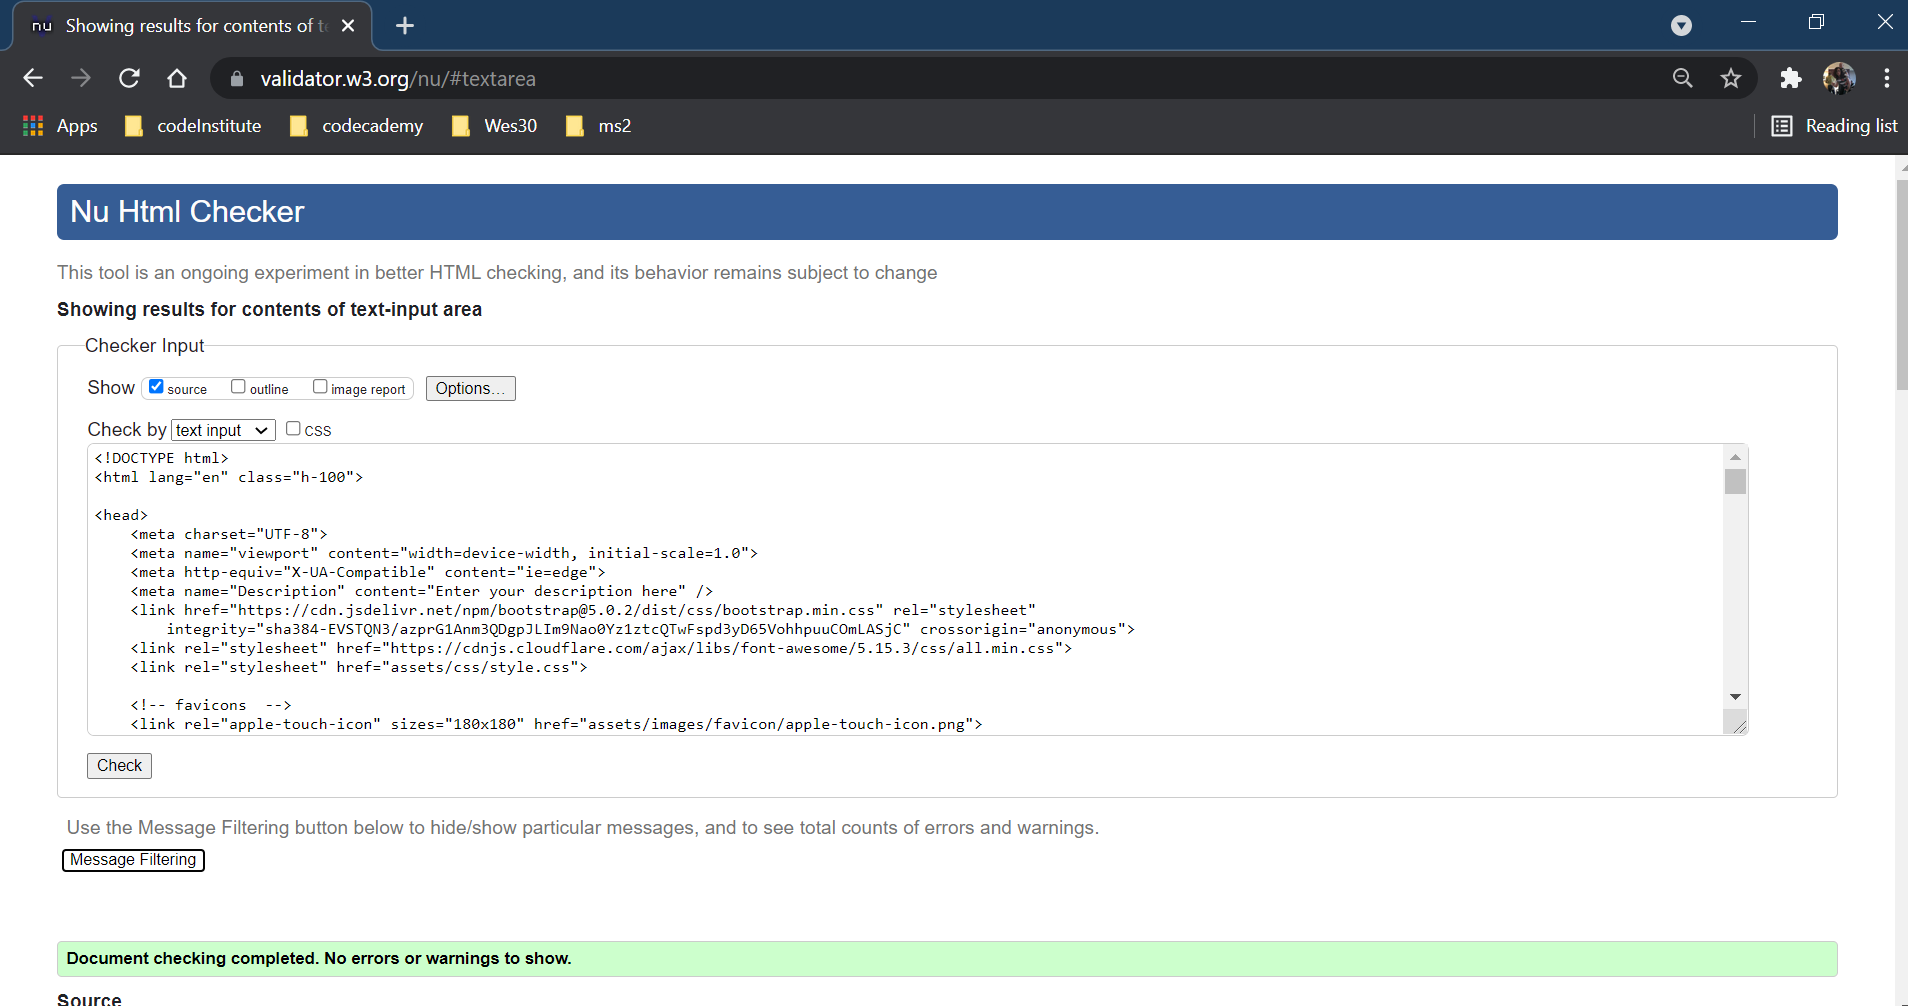
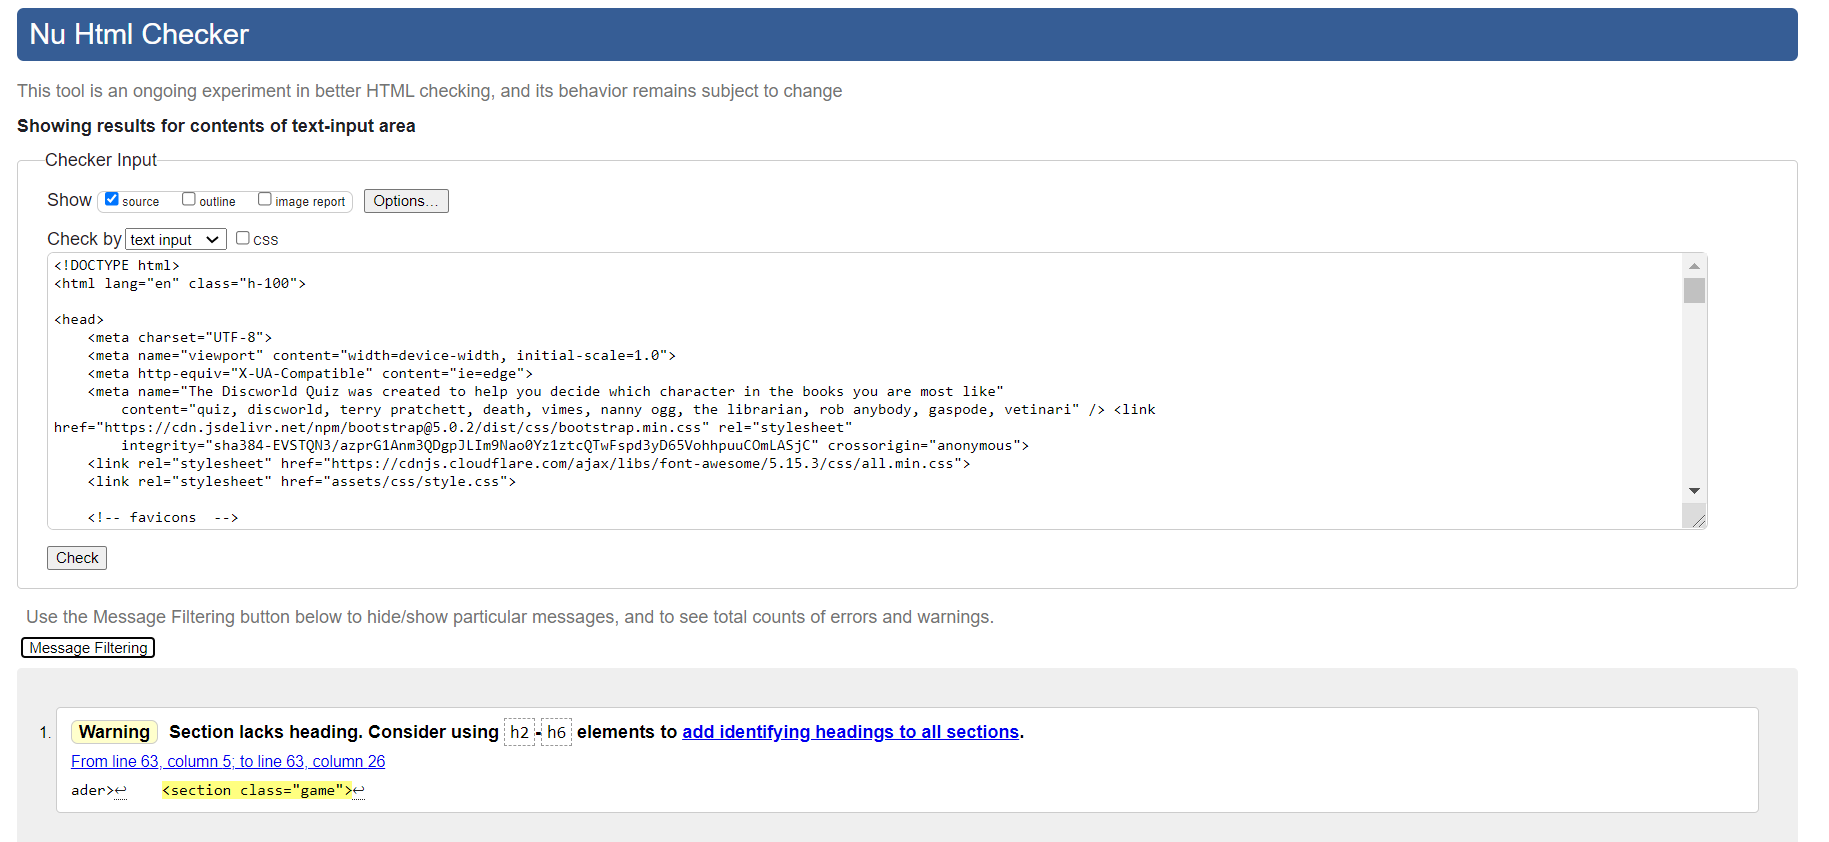
Dev: CSS testing updated after styling

diff --git a/game.html b/game.html
@@ -27,7 +27,7 @@
         <!-- Transparent navbar https://www.youtube.com/watch?v=kmmxxfyufLE -->
         <nav class="navbar fixed-top navbar-expand-md navbar-dark p-md-3">
             <div class="container-fluid">
-                <a class="navbar-brand" href="index.html"><img src="assets/images/noun_turtle.png" alt="turtle icon"></a>
+                <a class="navbar-brand" href="index.html"><img src="assets/images/noun_turtle.png" alt="turtle icon" class="turtle" width="75" height="75"></a>
                 <div class="button d-sm-block d-md-none btn">
                     <img src="assets/images/noun_mute.png" alt="volume button" class="volume justify-content-center">
                 </div>
@@ -52,7 +52,7 @@
                         <li>
                             <div class="button d-none d-md-block btn">
                                 <img src="assets/images/noun_mute.png" alt="volume button"
-                                    class="volume justify-content-center">
+                                    class="volume justify-content-center" width="50" height="50">
                             </div>
                         </li>
                     </ul>
@@ -91,33 +91,33 @@
 
     <!-- Transparent Footer help https://codepen.io/knuhol/pen/zzQpeR  -->
     <footer class="fixed-bottom footer d-flex mt-auto py-3 bg-light">
-        <div class="container">
+        <div class="container-fluid">
             <div class="row align-items-center">
-                <div class="col">
+                <div class="col d-flex justify-content-around">
                     <ul class="copyright">
                         <li class="list-inline-item sm-links discworld"><a href="https://www.discworldemporium.com/"
                                 target="_blank"><img src="assets/images/discworldEmporium.jpg"
-                                    alt="link to Discworld Emporium" rel="noopener" width="32px" height="32px"></a></li>
-                        <li class="list-inline-item"><img class="icon" src="assets/images/copyright.png" width="20px" height="20px"
+                                    alt="link to Discworld Emporium" rel="noopener" width="32" height="32"></a></li>
+                        <li class="list-inline-item"><img class="icon" src="assets/images/copyright.jpg" width="20" height="19"
                                 alt="copyright symbol"></li>
                         <li class="list-inline-item terry">Terry Pratchett</li>
                     </ul>
                 </div>
-                <div class="col">
+                <div class="col d-flex justify-content-around">
                     <ul class="list-inline sm-links-ul">
                         <li class="list-inline-item sm-links">
                             <a href="https://github.com/suzybee1987" target="_blank" rel="noopener">
-                                <img src="assets/images/github.png" alt="GitHub link" width="32px">
+                                <img src="assets/images/github.png" alt="GitHub link" width="32">
                             </a>
                         </li>
                         <li class="list-inline-item sm-links">
                             <a href="https://www.instagram.com/" target="_blank" rel="noopener">
-                                <img src="assets/images/noun_ig.png" alt="instagram link" width="32px">
+                                <img src="assets/images/noun_ig.png" alt="instagram link" width="32">
                             </a>
                         </li>
                         <li class="list-inline-item sm-links">
                             <a href="https://www.facebook.com/" target="_blank" rel="noopener">
-                                <img src="assets/images/facebook.png" alt="facebook link" width="32px">
+                                <img src="assets/images/facebook.png" alt="facebook link" width="32">
                             </a>
                         </li>
                     </ul>

diff --git a/contact.html b/contact.html
@@ -27,7 +27,7 @@
         <nav class="navbar fixed-top navbar-expand-md navbar-dark p-md-3">
             <div class="container-fluid">
                 <a class="navbar-brand" href="index.html"><img src="assets/images/noun_turtle.png"
-                        alt="turtle icon"></a>
+                        alt="turtle icon" class="turtle" width="75" height="75"></a>
                 <button class="navbar-toggler btn btn-outline-light" type="button" data-bs-toggle="collapse"
                     data-bs-target="#navbarNav" aria-controls="navbarNav" aria-expanded="false"
                     aria-label="Toggle navigation">
@@ -82,7 +82,7 @@
                                 <label for="textArea" class="form-label-sm">comments:</label>
                             </div>
                             <div class="col-8">
-                                <textarea name="message" class="form-control-sm data" rows="2" id="textArea"
+                                <textarea name="message" class="form-control-sm data w-100" rows="2" id="textArea"
                                     required></textarea>
                             </div>
                         </div>
@@ -118,33 +118,33 @@
 
     <!-- Transparent Footer help https://codepen.io/knuhol/pen/zzQpeR  -->
     <footer class="fixed-bottom footer d-flex mt-auto py-3 bg-light">
-        <div class="container">
+        <div class="container-fluid">
             <div class="row align-items-center">
-                <div class="col">
+                <div class="col d-flex justify-content-around">
                     <ul class="copyright">
                         <li class="list-inline-item sm-links discworld"><a href="https://www.discworldemporium.com/"
                                 target="_blank"><img src="assets/images/discworldEmporium.jpg"
-                                    alt="link to Discworld Emporium" rel="noopener" width="32px" height="32px"></a></li>
-                        <li class="list-inline-item"><img class="icon" src="assets/images/copyright.png" width="20px" height="20px"
+                                    alt="link to Discworld Emporium" rel="noopener" width="32" height="32"></a></li>
+                        <li class="list-inline-item"><img class="icon" src="assets/images/copyright.jpg" width="20" height="19"
                                 alt="copyright symbol"></li>
                         <li class="list-inline-item terry">Terry Pratchett</li>
                     </ul>
                 </div>
-                <div class="col">
+                <div class="col d-flex justify-content-around">
                     <ul class="list-inline sm-links-ul">
                         <li class="list-inline-item sm-links">
                             <a href="https://github.com/suzybee1987" target="_blank" rel="noopener">
-                                <img src="assets/images/github.png" alt="GitHub link" width="32px">
+                                <img src="assets/images/github.png" alt="GitHub link" width="32">
                             </a>
                         </li>
                         <li class="list-inline-item sm-links">
                             <a href="https://www.instagram.com/" target="_blank" rel="noopener">
-                                <img src="assets/images/noun_ig.png" alt="instagram link" width="32px">
+                                <img src="assets/images/noun_ig.png" alt="instagram link" width="32">
                             </a>
                         </li>
                         <li class="list-inline-item sm-links">
                             <a href="https://www.facebook.com/" target="_blank" rel="noopener">
-                                <img src="assets/images/facebook.png" alt="facebook link" width="32px">
+                                <img src="assets/images/facebook.png" alt="facebook link" width="32">
                             </a>
                         </li>
                     </ul>

diff --git a/index.html b/index.html
@@ -33,7 +33,7 @@
         <nav class="navbar fixed-top navbar-expand-md navbar-dark p-md-3">
             <div class="container-fluid">
                 <a class="navbar-brand" href="index.html" aria-current="page"><img src="assets/images/noun_turtle.png"
-                        alt="turtle icon"></a>
+                        alt="turtle icon" class="turtle" width="75" height="75"></a>
                 <button class="navbar-toggler btn btn-outline-light" type="button" data-bs-toggle="collapse"
                     data-bs-target="#navbarNav" aria-controls="navbarNav" aria-expanded="false"
                     aria-label="Toggle navigation">
@@ -108,33 +108,33 @@
 
     <!-- Transparent Footer help https://codepen.io/knuhol/pen/zzQpeR  -->
     <footer class="fixed-bottom footer d-flex mt-auto py-3 bg-light">
-        <div class="container">
+        <div class="container-fluid">
             <div class="row align-items-center">
-                <div class="col">
+                <div class="col d-flex justify-content-around">
                     <ul class="copyright">
                         <li class="list-inline-item sm-links discworld"><a href="https://www.discworldemporium.com/"
-                                target="_blank"><img src="assets/images/discworldEmporium.jpg" width="32px" height="32px"
+                                target="_blank"><img src="assets/images/discworldEmporium.jpg" width="32" height="32"
                                     alt="link to Discworld Emporium" rel="noopener"></a></li>
-                        <li class="list-inline-item"><img class="icon" src="assets/images/copyright.png"  width="20px" height="20px"
+                        <li class="list-inline-item"><img class="icon" src="assets/images/copyright.jpg"  width="20" height="19"
                                 alt="copyright symbol"></li>
                         <li class="list-inline-item terry">Terry Pratchett</li>
                     </ul>
                 </div>
-                <div class="col">
+                <div class="col d-flex justify-content-around">
                     <ul class="list-inline sm-links-ul">
                         <li class="list-inline-item sm-links">
                             <a href="https://github.com/suzybee1987" target="_blank" rel="noopener">
-                                <img src="assets/images/github.png" alt="GitHub link" width="32px">
+                                <img src="assets/images/github.png" alt="GitHub link" width="32">
                             </a>
                         </li>
                         <li class="list-inline-item sm-links">
                             <a href="https://www.instagram.com/" target="_blank" rel="noopener">
-                                <img src="assets/images/noun_ig.png" alt="instagram link" width="32px">
+                                <img src="assets/images/noun_ig.png" alt="instagram link" width="32">
                             </a>
                         </li>
                         <li class="list-inline-item sm-links">
                             <a href="https://www.facebook.com/" target="_blank" rel="noopener">
-                                <img src="assets/images/facebook.png" alt="facebook link" width="32px">
+                                <img src="assets/images/facebook.png" alt="facebook link" width="32">
                             </a>
                         </li>
                     </ul>

diff --git a/assets/css/style.css b/assets/css/style.css
@@ -1,10 +1,5 @@
 @import url('https://fonts.googleapis.com/css2?family=IM+Fell+French+Canon+SC&family=IM+Fell+Great+Primer&display=swap');
 
-html,
-body {
-    height: 100;
-}
-
 body {
     font-family: 'IM Fell Great Primer',
         serif;
@@ -43,7 +38,7 @@ a.help-btn {
 }
 
 /* as nav is transparent it is hard to see on mobile so media query to change to dark-blue  */
-@media screen and (max-width: 768px) {
+@media screen and (max-width: 767px) {
     ul.navbar-nav.align-items-end.ms-auto {
         background: #0e3159;
         width: 162px;
@@ -52,21 +47,15 @@ a.help-btn {
         border: 0;
     }
     .game {
-        height: 110vh;
+        height: 120vh;
     }
-}
-
-img,
-svg {
-    vertical-align: middle;
-    height: 75px;
 }
 
 /* on smaller screen make turtle a bit smaller  */
 @media only screen and (max-width: 768px) {
-    img,
-    svg {
+    .turtle {
         height: 50px;
+        width: 50px;
     }
 }
 
@@ -117,6 +106,7 @@ a.nav-link.text-white:hover {
     background-color: rgb(213 220 220 / 88%);
     text-align: center;
     border-bottom: transparent;
+    max-width: 450px;
 }
 
 .modal-header {
@@ -203,7 +193,6 @@ a:hover {
     justify-content: center;
 }
 
-/*--------------------------- Modal----------------------- end  */
 /*-----------------------------Footer ---------------------------- */
 footer {
     list-style-type: none;
@@ -214,7 +203,7 @@ footer {
     align-items: center;
     background: #fff;
     opacity: 0.6;
-    height: 60px;
+    height: 50px;
     z-index: 2;
     flex-shrink: 0;
 }
@@ -224,10 +213,6 @@ footer li {
     justify-items: center;
     align-items: center;
     color: black;
-}
-
-.icon {
-    height: 30px;
 }
 
 .terry {
@@ -256,16 +241,15 @@ footer li {
     text-decoration: none;
 }
 
-footer img {
+.sm-links {
     height: 32px;
+    width: 32px;
 }
 
 .sm-links:hover {
-    padding: 5px;
     transform: scale(1.1);
     box-shadow: 0 0 1rem #000;
 }
-
 
 /* Contact page  */
 /* https: //css-tricks.com/perfect-full-page-background-image/ to get the perfect background fit */
@@ -275,7 +259,7 @@ footer img {
     -moz-background-size: cover;
     -o-background-size: cover;
     background-size: cover;
-    min-height: 100vh;
+    min-height: 110vh;
 }
 
 .bg-light.h-100.p-5.rounded-3.text-center {
@@ -283,8 +267,8 @@ footer img {
 }
 
 .contact {
-    margin-top: 150px;
-    max-width: 380px;
+    margin-top: 110px;
+    max-width: 350px;
     align-items: center;
     justify-content: center;
     opacity: 0.9;
@@ -305,7 +289,7 @@ footer img {
     -o-background-size: cover;
     background-size: cover;
     flex: 1 0 auto;
-    min-height: 100vh;
+    min-height: 110vh;
 }
 
 .gameContent {
@@ -354,11 +338,11 @@ footer img {
 /* for screen sizes medium increase padding */
 @media screen and (min-width: 576px) {
     #quizQuestion {
-        padding-top: 150px;
+        padding-top: 130px;
         color: white;
         font-family: 'IM Fell French Canon SC',
             serif;
-        font-size: 2.5em;
+        font-size: 2.2em;
     }
 }
 
@@ -444,8 +428,6 @@ footer img {
 .volume {
     display: flex;
     justify-content: center;
-    padding: 0 10px 0 10px;
-    height: 50px;
 }
 
 .muted {

diff --git a/assets/js/script.js b/assets/js/script.js
@@ -143,7 +143,7 @@
   				// add q and a to the output 
   				gameOutput.push(
   					`<div class="slide">
-                        <div class="col m-auto text-center" id="quizQuestion">${currentQ.question}</div>
+                        <h2 class="col m-auto text-center" id="quizQuestion">${currentQ.question}</h2>
                         <div class="answers row text-center">${answers.join('')}</div>
                 </div>`
   				);

diff --git a/TESTING.md b/TESTING.md
@@ -263,12 +263,20 @@ The live site address was given to family and friends to confirm the links work 
 
 - [JSHint](assets/readme_docs/testing/jshintReport.txt) which was configured to ES6 showed one warning to wrap the body of a 'for in' in an if statement. 
 
-- [style.css](assets/readme_docs/testing/w3ctesting/csstesting.PNG) testing completed with issues regarding the webkit vendor extensions which are to be expected and it also warns about using the same background colour and borders for buttons. There is enough of a contract between the text and background for this not to be an issue. 
+- [style.css](assets/readme_docs/testing/w3ctesting/csstesting.png) testing completed with issues regarding the webkit vendor extensions which are to be expected and it also warns about using the same background colour and borders for buttons. There is enough of a contract between the text and background for this not to be an issue. I attempted to save this as a PDF but GitPod wouldn't accept it so saved as PNG and assessor should zoom in to see all the information, thanks. 
 
 [Back to contents](#contents)
 
 
 ## **Bugs**
 
+- **game.html** 
+  - when first creating the game there were issues with the questions overlapping the footer on certain devices and since the footer is transparent it wasn't a traditional fix of adding it to the end of the content. This meant the size of some of the buttons was reduced and the hero image viewport height just a bit higher than full screen in case the user had to scroll. 
+  - padding-top amended for the best mobile experience and media queries added
+  - issue within script.js where Vetinari score was omitted so this was added in later.
+  - some minor styling with font sizes and margin amended. 
+
+- **index.html**
+  - Modal launch on page load stopped working after running Lighthouse test because it detected unused code (jQuery CDN link) which was removed and then resolved on next commit. 
 
 [Back to contents](#contents)

diff --git a/README.md b/README.md
@@ -1,5 +1,10 @@
 # Terry Pratchett Discworld Quiz!
 
+![GitHub contributors](https://img.shields.io/github/contributors/suzybee1987/milestone-2)
+![GitHub last commit](https://img.shields.io/github/last-commit/suzybee1987/milestone-2)
+![GitHub language count](https://img.shields.io/github/languages/count/suzybee1987/milestone-2)
+![GitHub top language](https://img.shields.io/github/languages/top/suzybee1987/milestone-2)
+
 ![](assets/readme_docs/amiresponsive.PNG)
 
 ## About
@@ -247,6 +252,7 @@ Features relevant to all pages:
 
 ### **Future Features**
 - I would like to implement a link to share with friends on WhatsApp and social media 
+- I would like to use local storage to save the mute status on the game
 
 
 ### **Responsive Design**
@@ -329,7 +335,7 @@ To clone this project from GitHub follow the instructions taken from [GitHub Doc
 - Descriptions of the characters were loosely taken from [Discworld Fandom](https://discworld.fandom.com/wiki/Main_Page)
 - The README.md content carried over from MS1 README.md and feedback from assessor.
 
-  
+
 ### **Layout**
 
 -Code Institute lessons using bootstrap
@@ -360,7 +366,7 @@ I downloaded these via a standard licence trial.
 
 - My Mentor for confidence boosting and helpful advice and feedback.
 - Friends and family for testing the site and giving feedback on different devices.
-- @Tobi and @Scott_Boning_lead on Slack who supported me through the journey
-- My husband for all his support and great ideas
+- @Tobi and @Scott_Boning_lead on Slack who supported me through the journey.
+- My husband for all his support, patience and great ideas.
 
 [Back to contents](#contents)
